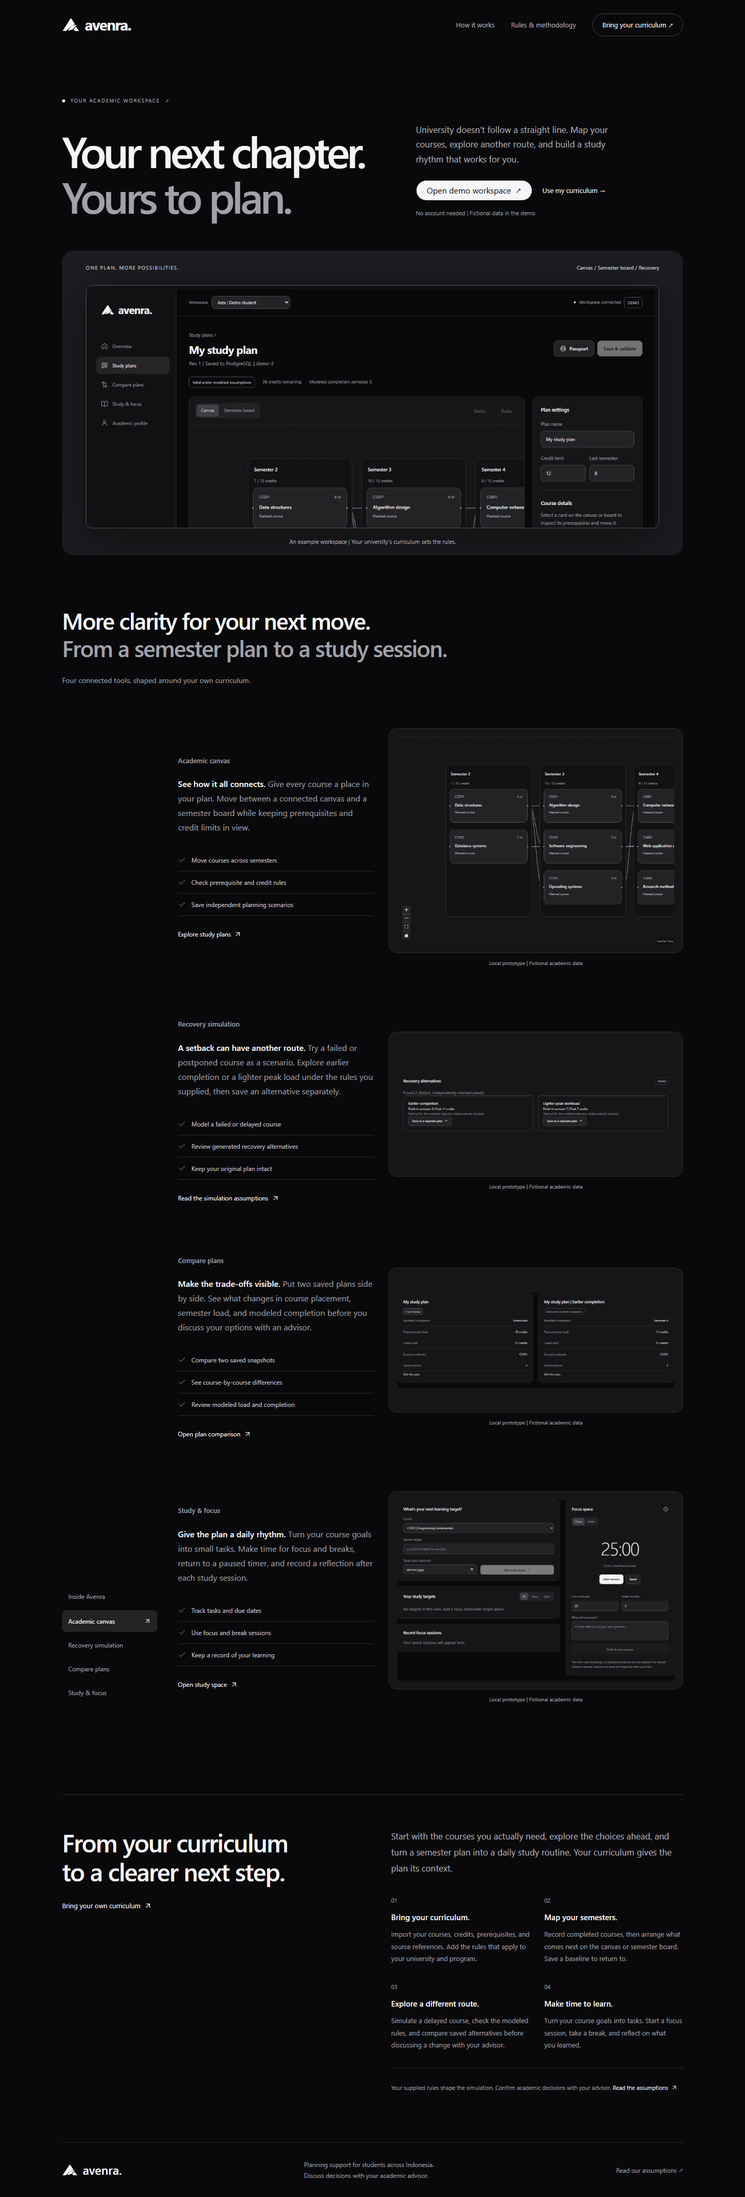
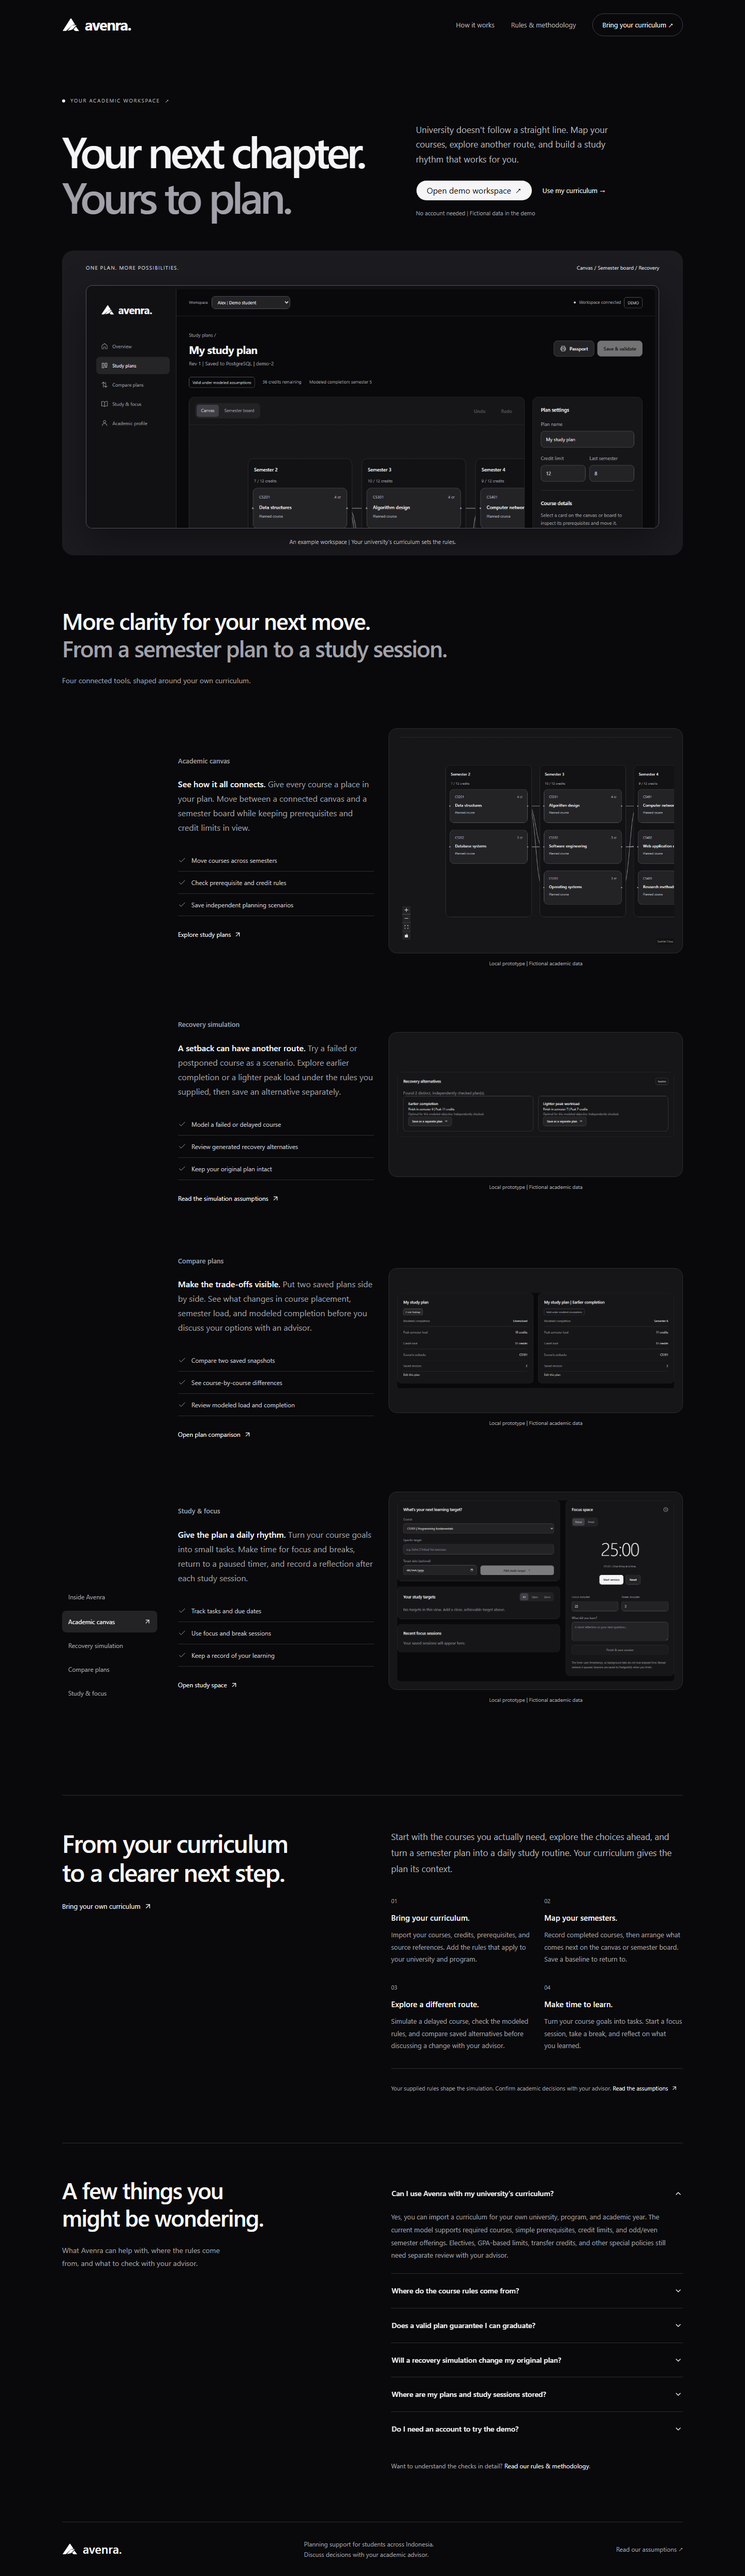
docs(web): document FAQ behavior and visual verification

diff --git a/docs/HERO_INTEGRATION.md b/docs/HERO_INTEGRATION.md
@@ -40,3 +40,13 @@ The section after Features Five adapts [SV Blocks Content Two](https://sv-blocks
 `apps/web/src/lib/components/dusk/content/two.svelte` retains the selected block's two-column heading and supporting content. Four ordered steps explain importing a curriculum, mapping semesters, simulating a change, and studying with focus sessions. The introduction header's **How it works** link now targets `#getting-started`. The section links to curriculum import and the actual methodology page and preserves the monochrome theme without adding another screenshot-heavy section.
 
 Verified locally: four ordered steps, the introduction anchor, curriculum and methodology navigation, no browser exceptions, and no horizontal page overflow at 390 px and 768 px. Visual evidence is saved under `docs/screenshots/content-desktop.png` and `content-mobile.png`.
+
+## FAQs One
+
+The FAQ section after Content Two adapts [SV Blocks FAQs One](https://sv-blocks.vercel.app/d/faqs-one.json), installed with `pnpm dlx shadcn-svelte@latest add https://sv-blocks.vercel.app/d/faqs-one.json` from `apps/web`.
+
+`apps/web/src/lib/components/dusk/faqs/one.svelte` uses the installed Bits UI accordion wrappers in `src/lib/components/ui/accordion/`. Six answers explain curriculum support, user-supplied rules, modeled validity, recovery scenarios, local storage, and the account-free fictional demo. Content follows the implemented boundaries in `docs/MVP_WORKSPACE.md`; the placeholder commerce and support copy has been removed. The methodology link opens the real rules page.
+
+The registry utility alias now uses `#lib/utils`, avoiding duplicate `.js` extensions in generated imports. Accordion imports use explicit `.js` extensions and the shared utility exports the required `WithoutChild` type.
+
+Verified locally: all six questions, single-open behavior, collapse, ArrowDown focus movement, Space activation, methodology navigation, and 390/768 px layouts without horizontal page overflow or browser exceptions. Screenshots are `docs/screenshots/faq-desktop.png` and `faq-mobile.png`.

diff --git a/docs/screenshots/README.md b/docs/screenshots/README.md
@@ -18,3 +18,6 @@ integration, real student adoption, or a production deployment.
 
 - `content-desktop.png`: two-column getting-started section with four ordered steps.
 - `content-mobile.png`: stacked getting-started section at 390 px.
+
+- `faq-desktop.png`: FAQ accordion with the curriculum answer expanded.
+- `faq-mobile.png`: FAQ accordion with the demo answer expanded at 390 px.
